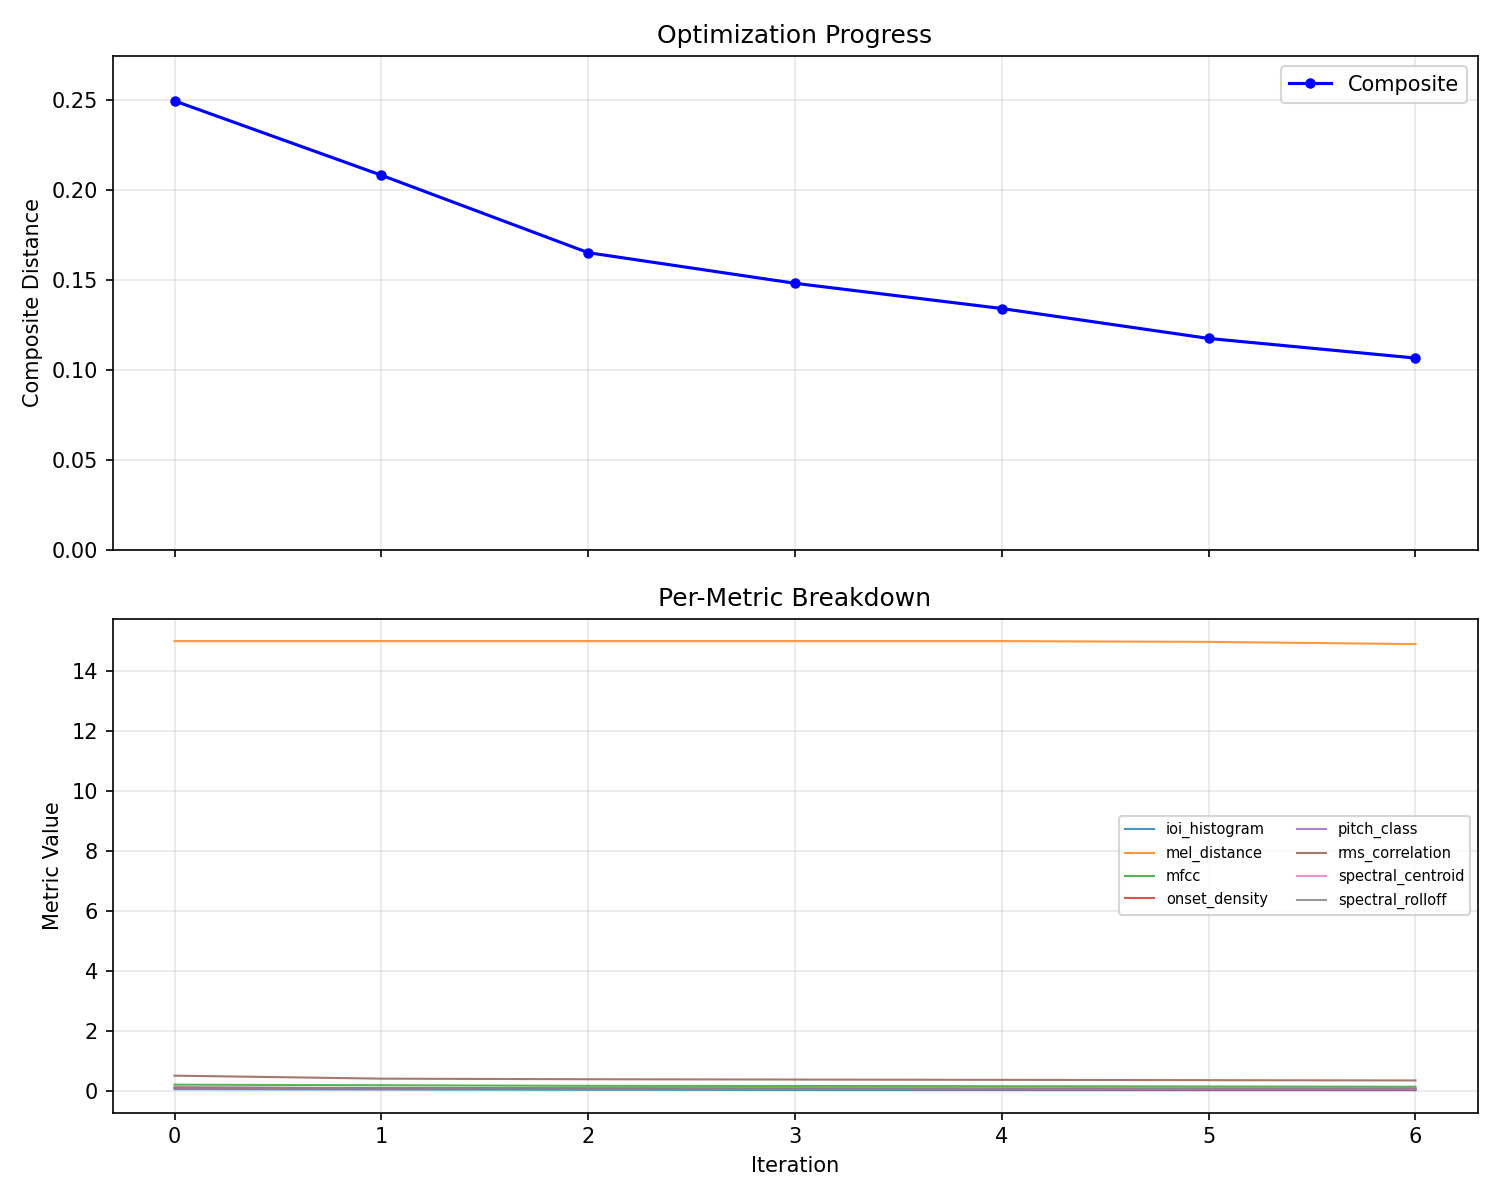
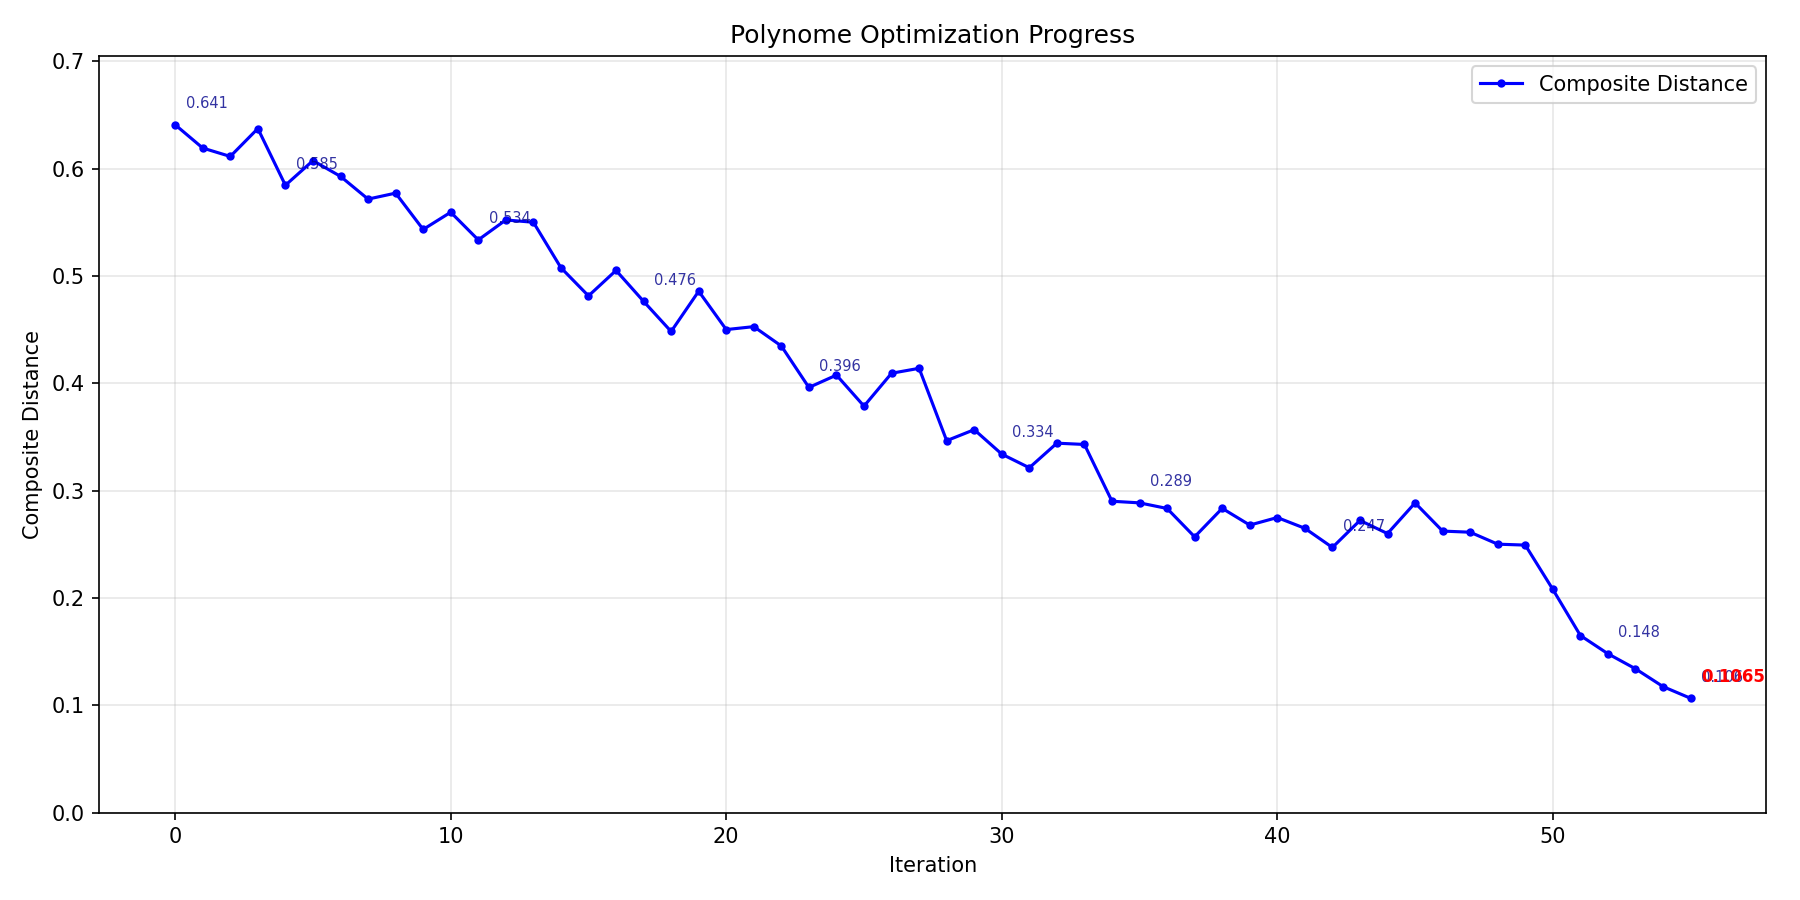
Include full optimization history in graph (0.64 -> 0.107)
Rebuilt optimization_log.csv from history.csv + CMA-ES runs.
Simplified graph.py to single composite plot with milestone annotations.

https://claude.ai/code/session_0188ukAE7BMDs8HRw6PitVdD

diff --git a/graph.py b/graph.py
@@ -23,45 +23,56 @@ def main():
 
     iterations = []
     composites = []
-    metrics_data = {}
+    descriptions = []
 
     with open(log_path) as f:
         reader = csv.DictReader(f)
         for row in reader:
             iterations.append(int(row['iteration']))
             composites.append(float(row['composite']))
-            for k, v in row.items():
-                if k not in ('iteration', 'composite', 'timestamp'):
-                    if k not in metrics_data:
-                        metrics_data[k] = []
-                    metrics_data[k].append(float(v))
+            descriptions.append(row.get('description', ''))
 
     import matplotlib
     if args.save:
         matplotlib.use('Agg')
     import matplotlib.pyplot as plt
 
-    fig, (ax1, ax2) = plt.subplots(2, 1, figsize=(10, 8), sharex=True)
+    fig, ax = plt.subplots(figsize=(12, 6))
 
-    # Top: composite distance
-    ax1.plot(iterations, composites, 'b-o', markersize=4, linewidth=1.5, label='Composite')
-    ax1.set_ylabel('Composite Distance')
-    ax1.set_title('Optimization Progress')
-    ax1.grid(True, alpha=0.3)
-    ax1.legend()
+    ax.plot(iterations, composites, 'b-o', markersize=3, linewidth=1.5, label='Composite Distance')
+    ax.set_xlabel('Iteration')
+    ax.set_ylabel('Composite Distance')
+    ax.set_title('Polynome Optimization Progress')
+    ax.grid(True, alpha=0.3)
+
     if composites:
-        ax1.set_ylim(bottom=0, top=max(composites) * 1.1)
+        ax.set_ylim(bottom=0, top=max(composites) * 1.1)
 
-    # Bottom: per-metric breakdown
-    colors = plt.cm.tab10(range(len(metrics_data)))
-    for (name, values), color in zip(sorted(metrics_data.items()), colors):
-        ax2.plot(iterations, values, '-', linewidth=1, label=name, color=color, alpha=0.8)
-    ax2.set_xlabel('Iteration')
-    ax2.set_ylabel('Metric Value')
-    ax2.set_title('Per-Metric Breakdown')
-    ax2.grid(True, alpha=0.3)
-    ax2.legend(fontsize=7, ncol=2)
+    # Annotate key milestones
+    best_so_far = float('inf')
+    milestones = []
+    for i, (it, comp, desc) in enumerate(zip(iterations, composites, descriptions)):
+        if comp < best_so_far:
+            best_so_far = comp
+            milestones.append((it, comp, desc))
 
+    # Show a few key milestone annotations (not all, to avoid clutter)
+    step = max(1, len(milestones) // 8)
+    for idx in range(0, len(milestones), step):
+        it, comp, desc = milestones[idx]
+        short = desc[:30] + '...' if len(desc) > 30 else desc
+        if short:
+            ax.annotate(f'{comp:.3f}', (it, comp),
+                        textcoords="offset points", xytext=(5, 8),
+                        fontsize=7, color='darkblue', alpha=0.8)
+    # Always annotate the last point
+    if milestones:
+        it, comp, desc = milestones[-1]
+        ax.annotate(f'{comp:.4f}', (it, comp),
+                    textcoords="offset points", xytext=(5, 8),
+                    fontsize=8, color='red', fontweight='bold')
+
+    ax.legend()
     plt.tight_layout()
 
     if args.save:
